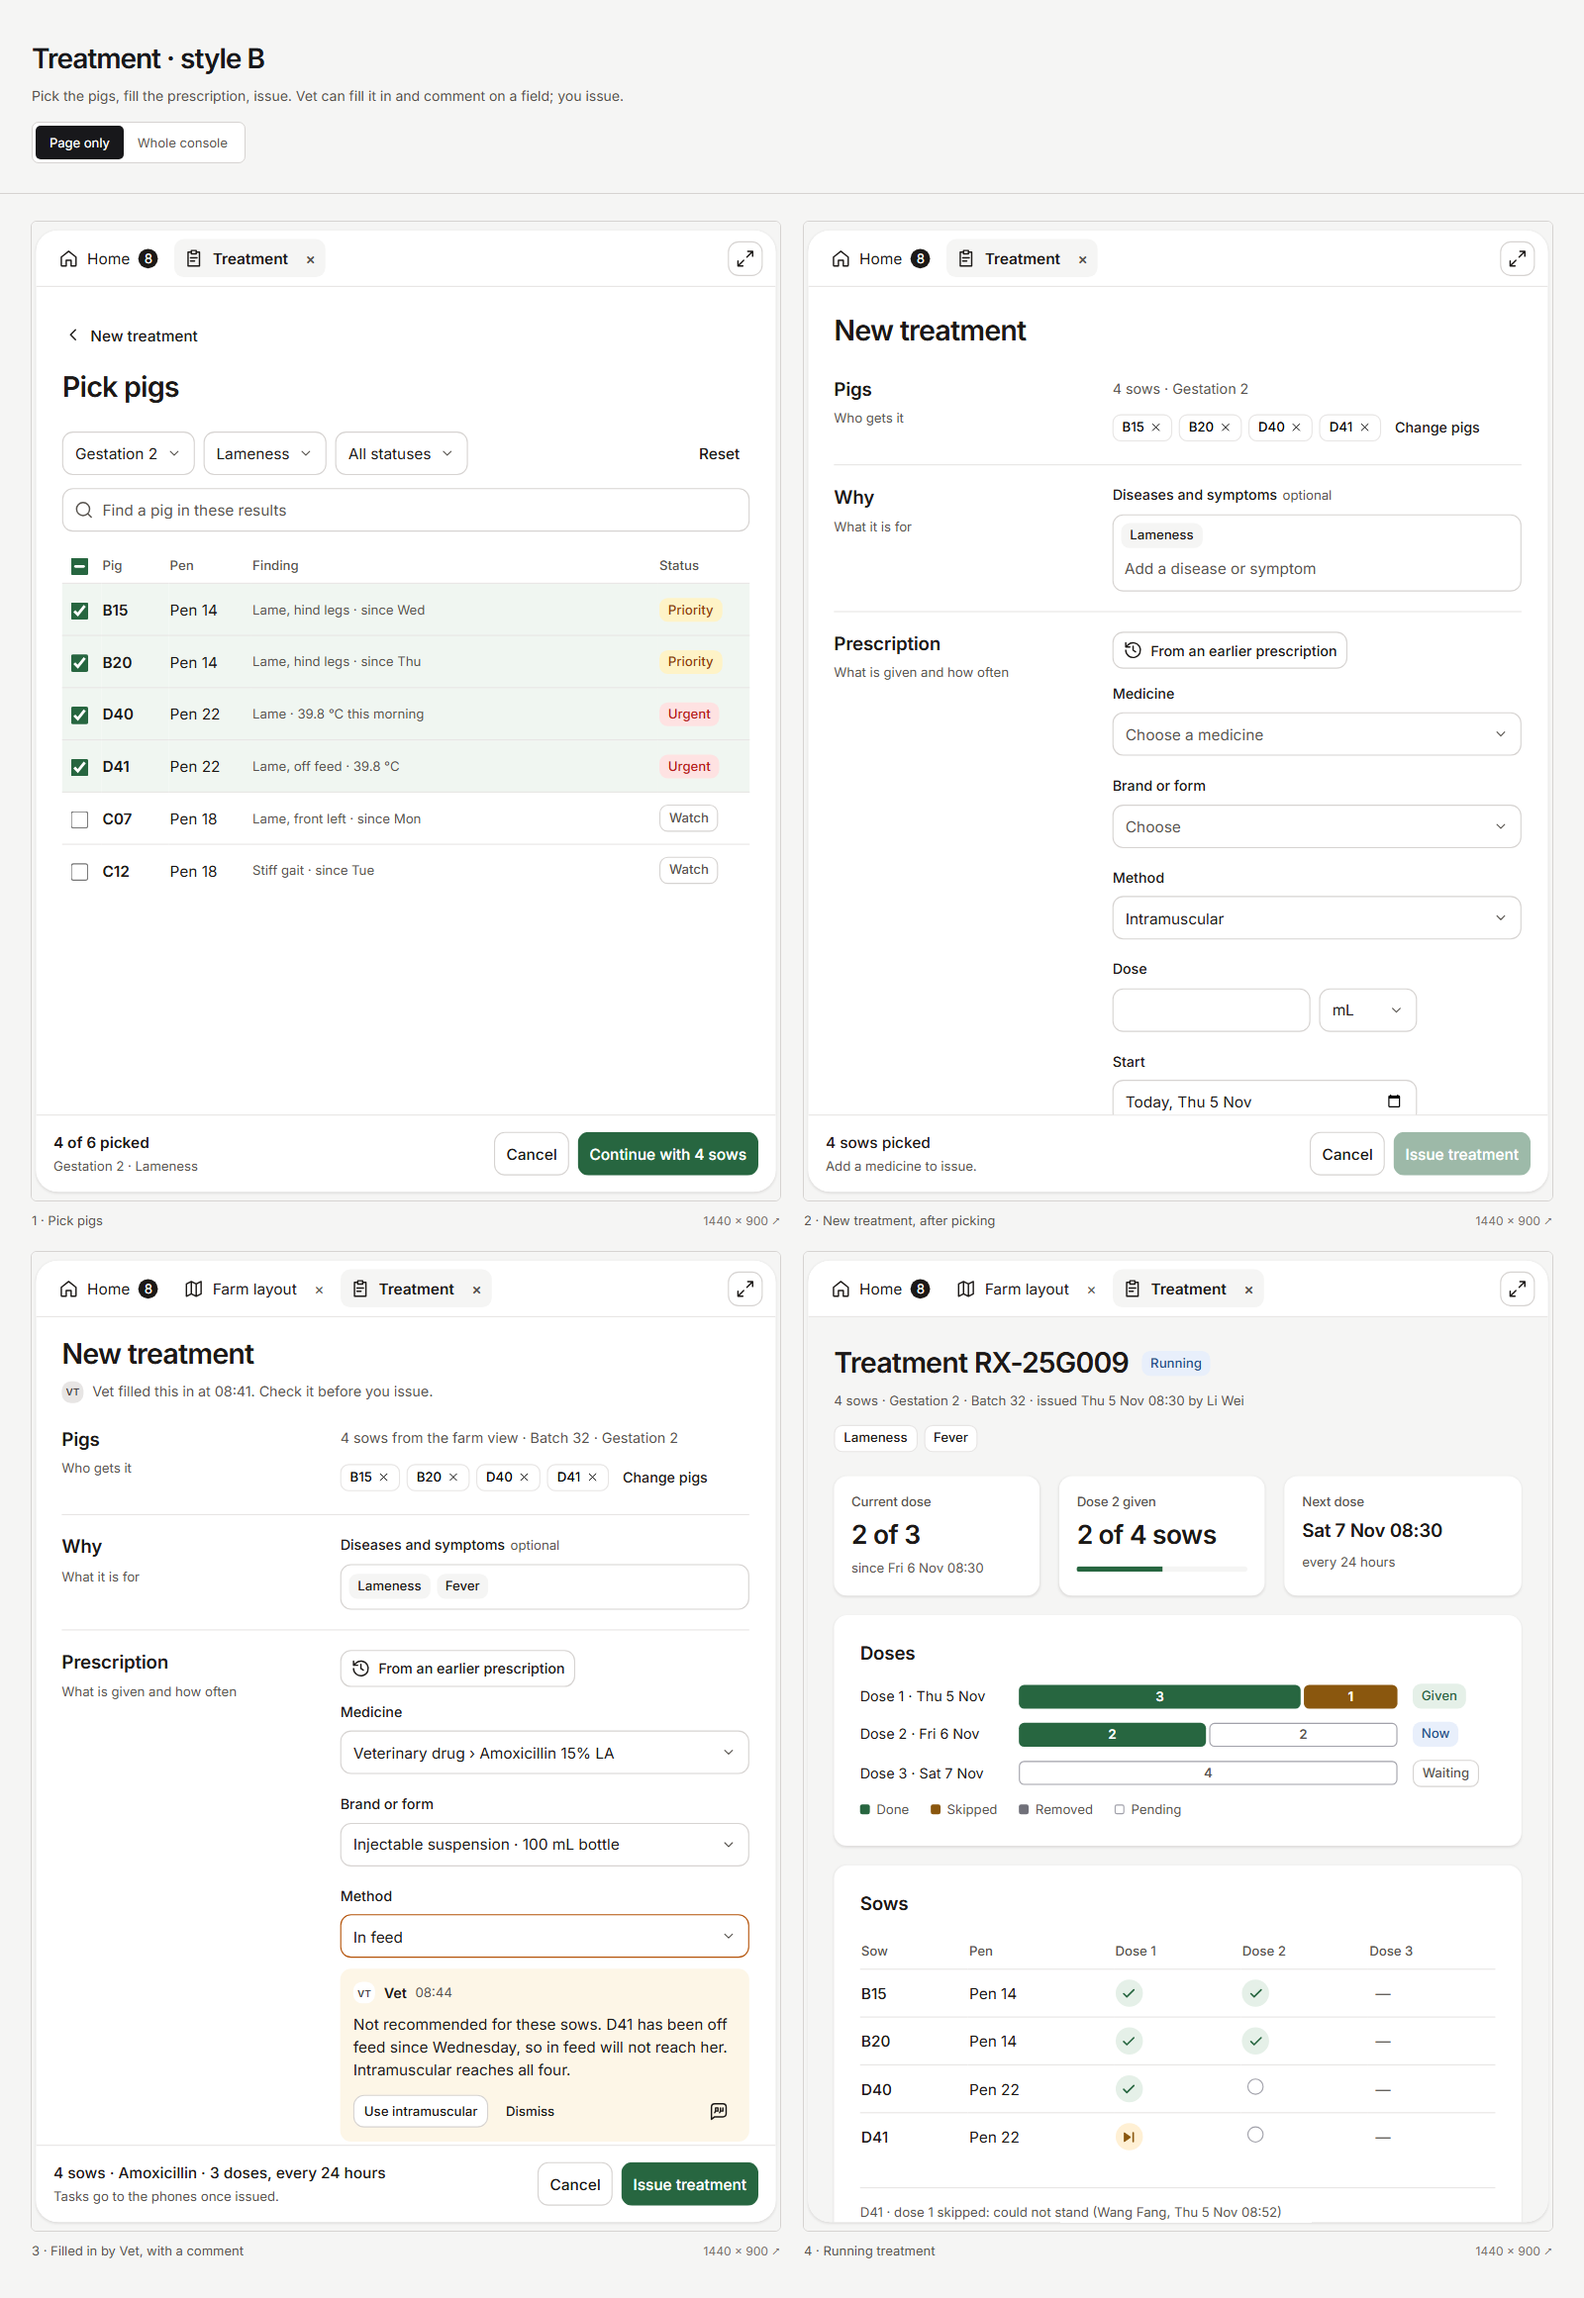
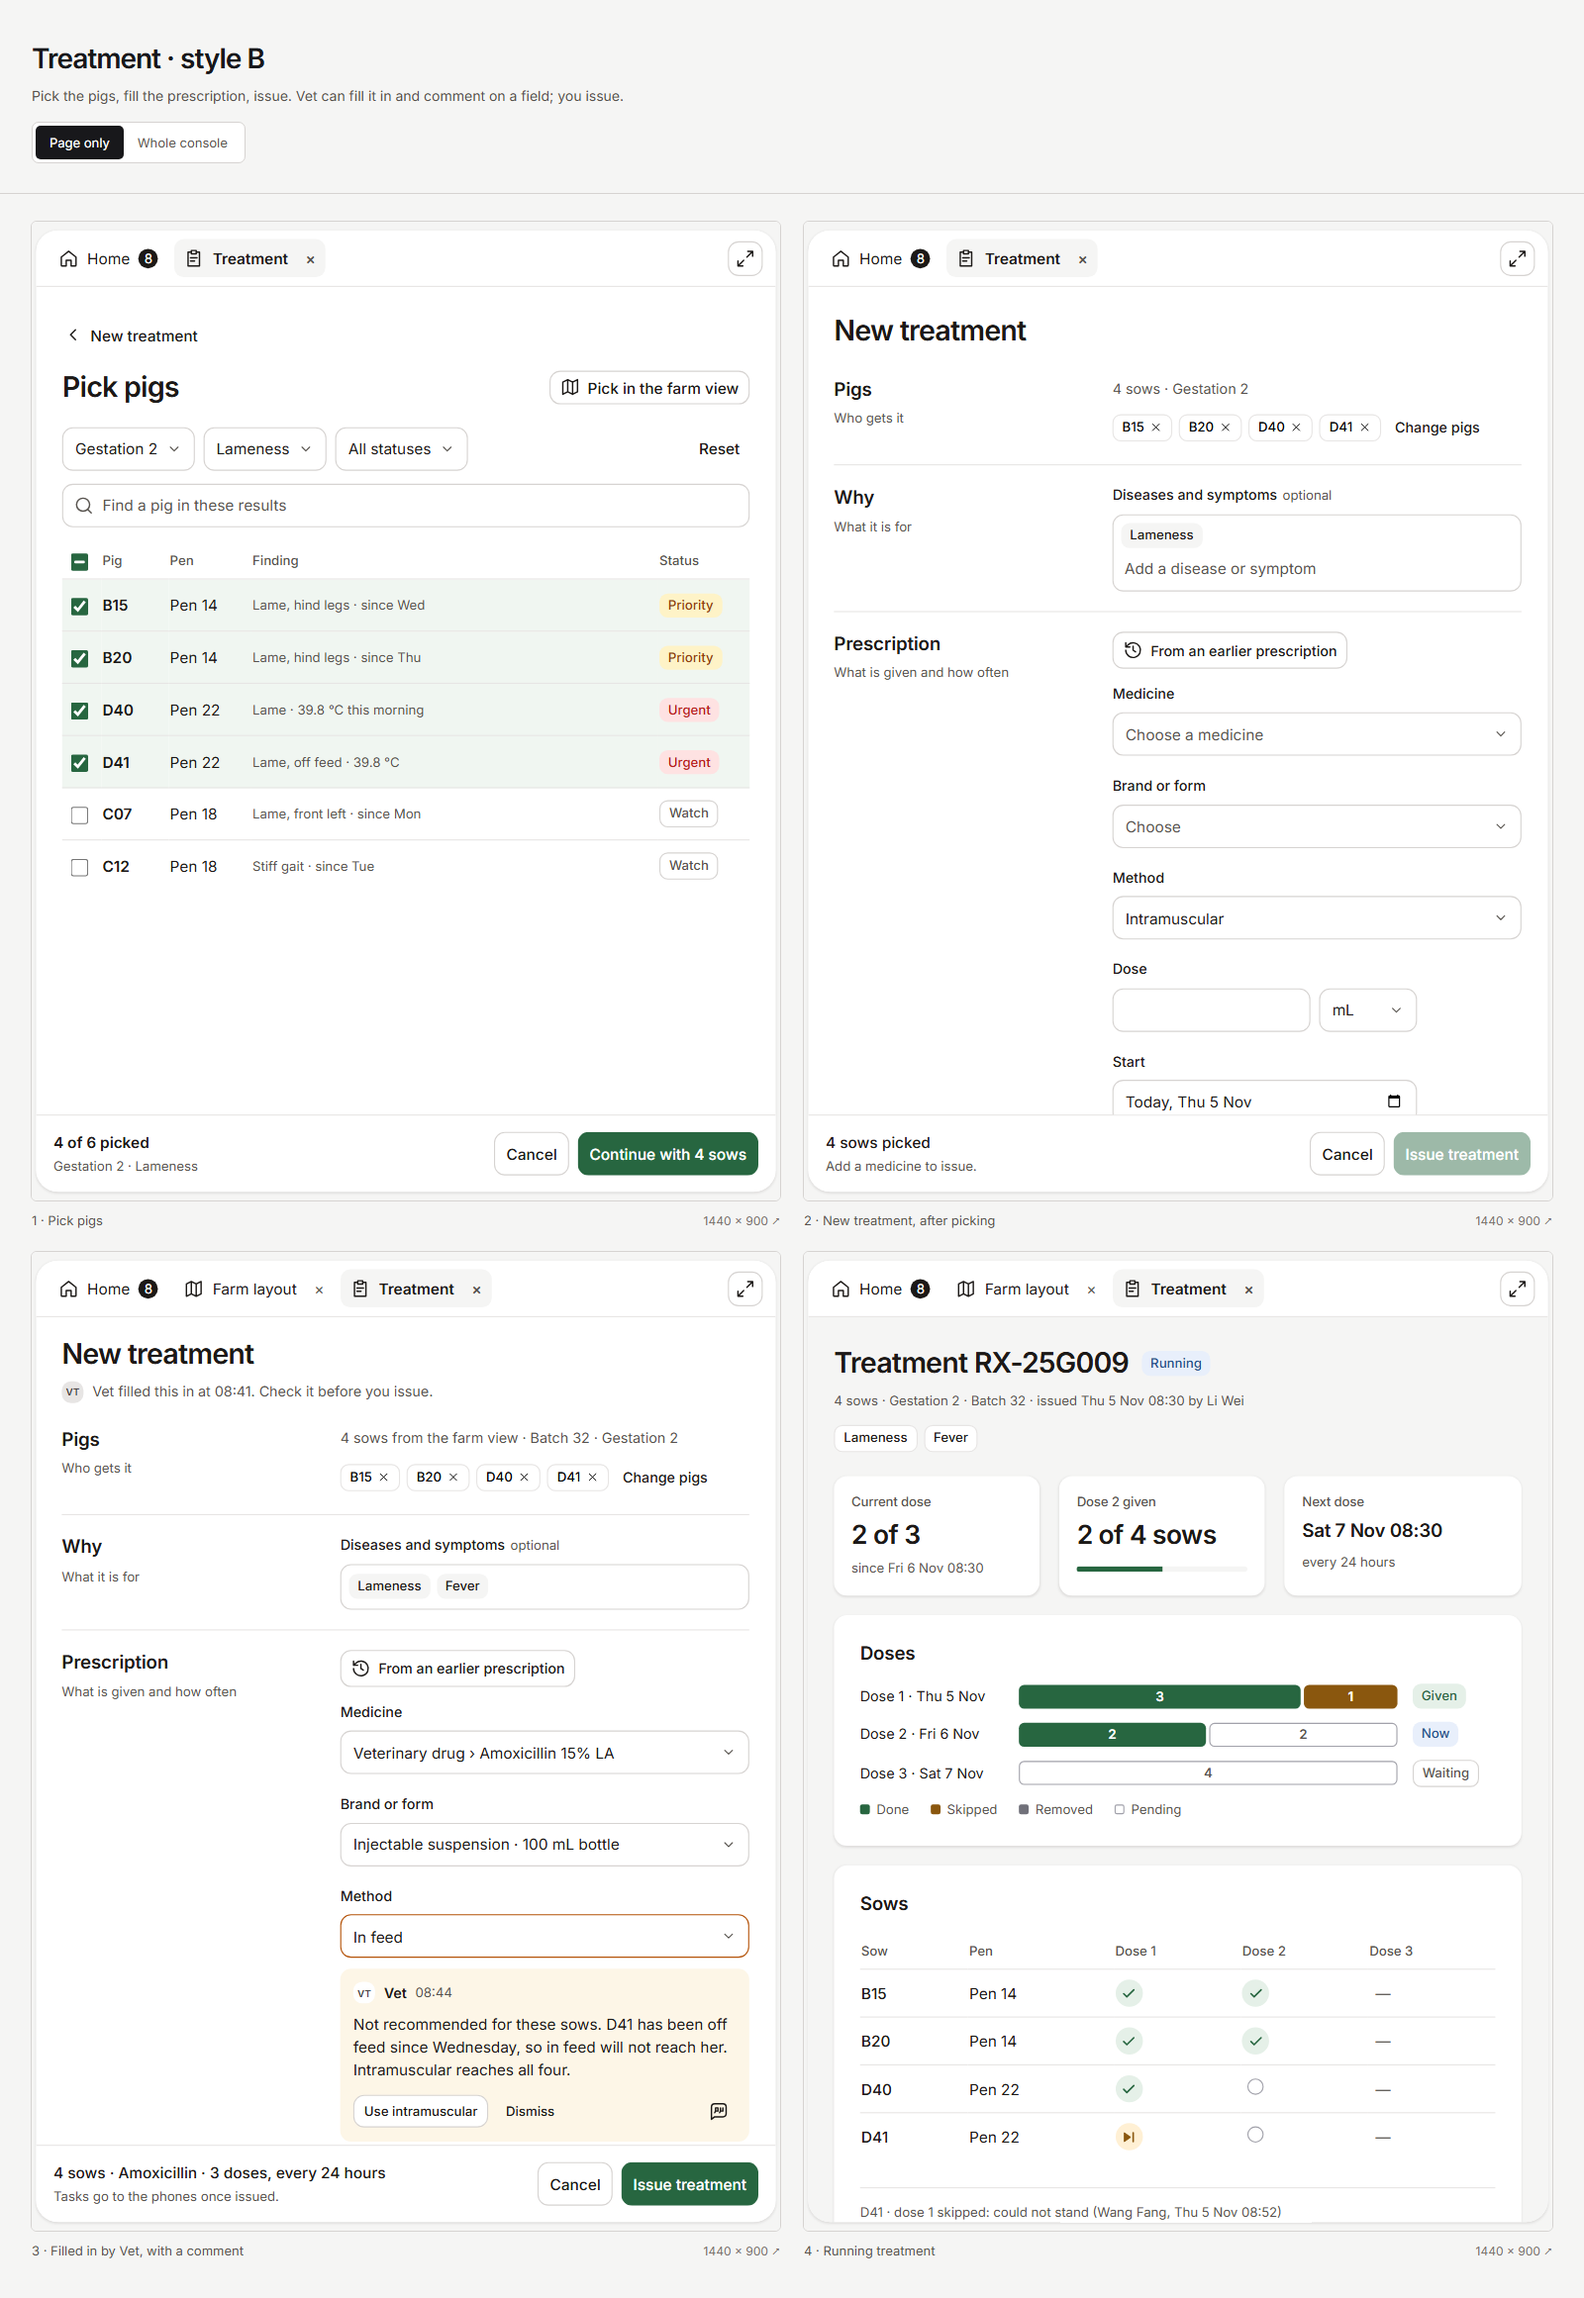
Treatment B: the pig picker offers 'Pick in the farm view' beside its title

diff --git a/prototypes/aifirst-canvas/style-board/treatment-b.html b/prototypes/aifirst-canvas/style-board/treatment-b.html
@@ -64,7 +64,8 @@
 .frame .vet-credit{margin-bottom:22px}
 .search-field{position:relative;margin-bottom:8px}.search-field>svg{position:absolute;left:11px;top:11px;color:var(--muted-foreground)}.search-field input{padding-left:36px}
 /* Dedicated picker uses the Table structure and B's existing controls. */
-.picker-body{padding:24px}.frame .picker-back{font-size:14px;padding-left:0;margin-bottom:12px}.picker-back svg{transform:rotate(180deg)}.picker-body h1{margin-bottom:24px}.picker-body .search-field{margin-bottom:16px}
+.picker-body{padding:24px}
+.picker-head{display:flex;align-items:center;justify-content:space-between;gap:12px;margin-bottom:20px}.frame .picker-head h1{margin:0}.frame .picker-back{font-size:14px;padding-left:0;margin-bottom:12px}.picker-back svg{transform:rotate(180deg)}.picker-body h1{margin-bottom:24px}.picker-body .search-field{margin-bottom:16px}
 .frame .picker-table th:first-child,.frame .picker-table td:first-child{width:36px;padding-left:8px}.frame .picker-table th:nth-child(2){width:62px}.picker-table th:nth-child(3){width:76px}.picker-table th:last-child{width:84px}.frame .picker-table td{height:48px;padding-right:8px}.picker-table tbody tr{cursor:pointer}.picker-table tbody tr:has(input:checked){background:#f0f6f1}.picker-table input{width:16px;height:16px;accent-color:var(--primary);margin:0;vertical-align:middle}.picker-table strong{font-weight:600}.picker-table .finding{font-size:12px;color:var(--muted-foreground)}.picker-save .picked-count{font-weight:600}
 .badge.urgent{background:#fee2e2;color:#b91c1c}.badge.priority{background:#fef3c7;color:#92400e}.badge.watch{border:1px solid var(--input);color:var(--muted-foreground)}
 .picked-foot{display:flex;align-items:center;gap:4px;flex-wrap:wrap;margin-top:6px;font-size:12px}.picked-count{margin-right:auto}.picked-foot .button{padding:0 6px;min-height:32px;font-size:12px}
@@ -93,7 +94,7 @@ function section(title,help,content,action=''){return `<section class="form-sect
 const pigs=[['B15','14','Lame, hind legs · since Wed','Priority'],['B20','14','Lame, hind legs · since Thu','Priority'],['D40','22','Lame · 39.8 °C this morning','Urgent'],['D41','22','Lame, off feed · 39.8 °C','Urgent'],['C07','18','Lame, front left · since Mon','Watch'],['C12','18','Stiff gait · since Tue','Watch']];
 const defaultPicked=['B15','B20','D40','D41'];
 function pigSelection(tags=defaultPicked){return `<p class="muted pig-source">${tags.length} ${tags.length===1?'sow':'sows'} · Gestation 2</p><div class="pig-selection"><div class="pig-chips">${tags.map(x=>`<button class="badge outline" aria-label="Remove ${x}">${x}${icon('close')}</button>`).join('')}</div>${btn('Change pigs','ghost','','change-pigs')}</div>`}
-function pigPicker(){return `<div class="page-scroll"><div class="picker-body">${btn('New treatment','ghost','chevron','picker-back')}<h1>Pick pigs</h1><div class="filters">${select('Gestation 2','Room or pen').replace('Room or pen: Gestation 2','Room or pen')}${select('Lameness','Disease or symptom').replace('Disease or symptom: Lameness','Disease or symptom')}${select('All statuses','Status').replace('Status: All statuses','Status')}${btn('Reset','ghost')}</div><div class="search-field">${icon('search')}<input class="input" aria-label="Find a pig in these results" placeholder="Find a pig in these results"></div><table class="table picker-table" aria-label="Pigs"><thead><tr><th scope="col"><input type="checkbox" class="pick-all" aria-label="Pick all pigs"></th>${['Pig','Pen','Finding','Status'].map(x=>`<th scope="col">${x}</th>`).join('')}</tr></thead><tbody>${pigs.map(([tag,pen,finding,status],i)=>`<tr><td><input type="checkbox" data-pig="${tag}" aria-label="Pick ${tag}" ${i<4?'checked':''}></td><td><strong>${tag}</strong></td><td>Pen ${pen}</td><td class="finding">${finding}</td><td><span class="badge ${status.toLowerCase()}">${status}</span></td></tr>`).join('')}</tbody></table></div></div><footer class="save-bar picker-save"><div class="save-summary"><span class="picked-count">4 of 6 picked</span><p>Gestation 2 · Lameness</p></div><div class="save-buttons">${btn('Cancel','outline','','picker-cancel')}${btn('Continue with 4 sows','default','','continue-pigs')}</div></footer>`}
+function pigPicker(){return `<div class="page-scroll"><div class="picker-body">${btn('New treatment','ghost','chevron','picker-back')}<div class="picker-head"><h1>Pick pigs</h1>${btn('Pick in the farm view','outline','map','compact picker-farm')}</div><div class="filters">${select('Gestation 2','Room or pen').replace('Room or pen: Gestation 2','Room or pen')}${select('Lameness','Disease or symptom').replace('Disease or symptom: Lameness','Disease or symptom')}${select('All statuses','Status').replace('Status: All statuses','Status')}${btn('Reset','ghost')}</div><div class="search-field">${icon('search')}<input class="input" aria-label="Find a pig in these results" placeholder="Find a pig in these results"></div><table class="table picker-table" aria-label="Pigs"><thead><tr><th scope="col"><input type="checkbox" class="pick-all" aria-label="Pick all pigs"></th>${['Pig','Pen','Finding','Status'].map(x=>`<th scope="col">${x}</th>`).join('')}</tr></thead><tbody>${pigs.map(([tag,pen,finding,status],i)=>`<tr><td><input type="checkbox" data-pig="${tag}" aria-label="Pick ${tag}" ${i<4?'checked':''}></td><td><strong>${tag}</strong></td><td>Pen ${pen}</td><td class="finding">${finding}</td><td><span class="badge ${status.toLowerCase()}">${status}</span></td></tr>`).join('')}</tbody></table></div></div><footer class="save-bar picker-save"><div class="save-summary"><span class="picked-count">4 of 6 picked</span><p>Gestation 2 · Lameness</p></div><div class="save-buttons">${btn('Cancel','outline','','picker-cancel')}${btn('Continue with 4 sows','default','','continue-pigs')}</div></footer>`}
 function agentComment(){return `<aside class="agent-comment" aria-label="Vet comment on Method"><div class="comment-meta"><span class="avatar">VT</span><strong>Vet</strong><time class="muted">08:44</time></div><p>Not recommended for these sows. D41 has been off feed since Wednesday, so in feed will not reach her. Intramuscular reaches all four.</p><div class="comment-actions">${btn('Use intramuscular','outline','','compact apply-method')}${btn('Dismiss','ghost','','compact dismiss-comment')}<button type="button" class="button ghost icon-button reply-comment" aria-label="Reply in chat">${icon('quote')}</button></div></aside>`}
 function newTreatment(v,screen){const filled=screen==='filled';return `<div class="page-scroll"><div class="form-body ${filled?'filled-form':''}"><h1>New treatment</h1>${filled?'<p class="vet-credit muted"><span class="avatar">VT</span>Vet filled this in at 08:41. Check it before you issue.</p>':''}${section('Pigs','Who gets it',filled?`<p class="muted pig-source">4 sows from the farm view · Batch 32 · Gestation 2</p><div class="pig-selection"><div class="pig-chips">${['B15','B20','D40','D41'].map(x=>`<button class="badge outline" aria-label="Remove ${x}">${x}${icon('close')}</button>`).join('')}</div>${btn('Change pigs','ghost','','change-pigs')}</div>`:pigSelection())}${section('Why','What it is for',field('Diseases and symptoms',`<div class="tag-input"><span class="badge secondary">Lameness</span>${filled?'<span class="badge secondary">Fever</span>':''}<input class="input" aria-label="Add a disease or symptom" placeholder="${filled?'':'Add a disease or symptom'}"></div>`,true))}${section('Prescription','What is given and how often',`<div class="field-grid">${field('Medicine',select(filled?'Veterinary drug › Amoxicillin 15% LA':'Choose a medicine','Medicine'))}${field('Brand or form',select(filled?'Injectable suspension · 100 mL bottle':'Choose','Brand or form'))}${field('Method',`<div class="method-control ${filled?'has-comment':''}">${select(filled?'In feed':'Intramuscular','Method')}</div>${filled?agentComment():''}`)}${field('Dose',`<div class="joined">${number(filled?15:'','Dose',.5)}${select('mL','Dose unit')}</div>`)}${field('Start',`<div class="date-field"><input class="input" type="date" aria-label="Start date" value="2026-11-05"><span>${filled?'Thu 5 Nov':'Today, Thu 5 Nov'}</span></div>`)}<div class="field"><div class="switch-line"><button type="button" class="switch" role="switch" aria-checked="${filled}" aria-label="Several doses"></button><span class="label">Several doses</span></div></div>${filled?`${field('Doses',number(3,'Doses',2))}${field('Every',`<div class="joined">${number(24,'Interval',1)}${select('hours','Interval unit')}</div>`)}`:''}</div><div class="medicine-foot">${filled?`<p>${icon('info')}Withdrawal 14 days, from the medicine record</p>`:'<span class="spacer"></span>'}<button type="button" class="button ghost icon-button" disabled aria-label="Delete medicine">${icon('trash')}</button></div><div class="separator"></div>${btn('Add medicine','ghost','plus','add-medicine')}`,btn('From an earlier prescription','outline','history','compact'))}${section('Notes','For the team',`<textarea class="textarea" aria-label="Notes" placeholder="Anything the team should know"></textarea>`)}</div></div><footer class="save-bar"><div class="save-summary">${filled?'4 sows · Amoxicillin · 3 doses, every 24 hours<p>Tasks go to the phones once issued.</p>':'<span class="save-picked">4 sows picked</span><p>Add a medicine to issue.</p>'}</div><div class="save-buttons">${btn('Cancel')}${filled?btn('Issue treatment','default'):'<button type="button" class="button default" disabled>Issue treatment</button>'}</div></footer>`}
 const doseData=[{label:'Dose 1 · Thu 5 Nov',done:3,skipped:1,removed:0,pending:0,state:'Given'},{label:'Dose 2 · Fri 6 Nov',done:2,skipped:0,removed:0,pending:2,state:'Now'},{label:'Dose 3 · Sat 7 Nov',done:0,skipped:0,removed:0,pending:4,state:'Waiting'}];
